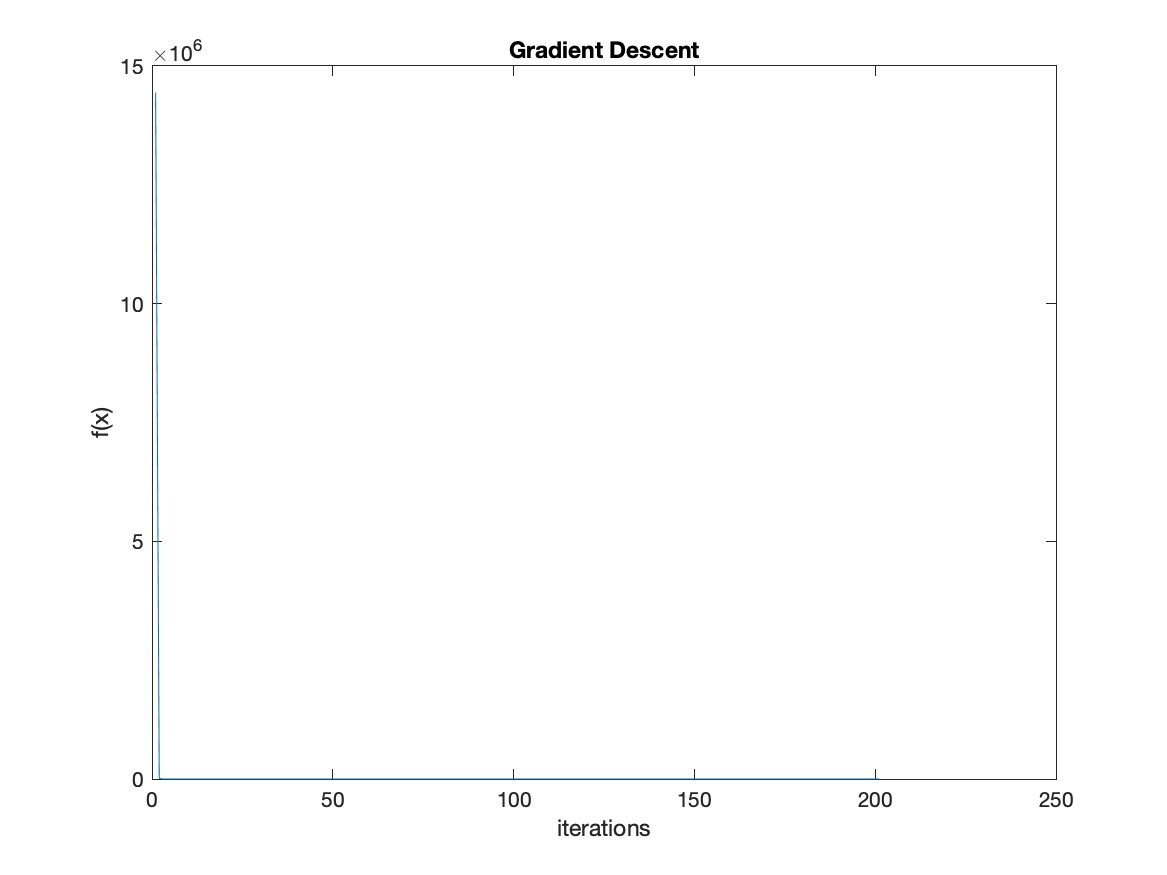
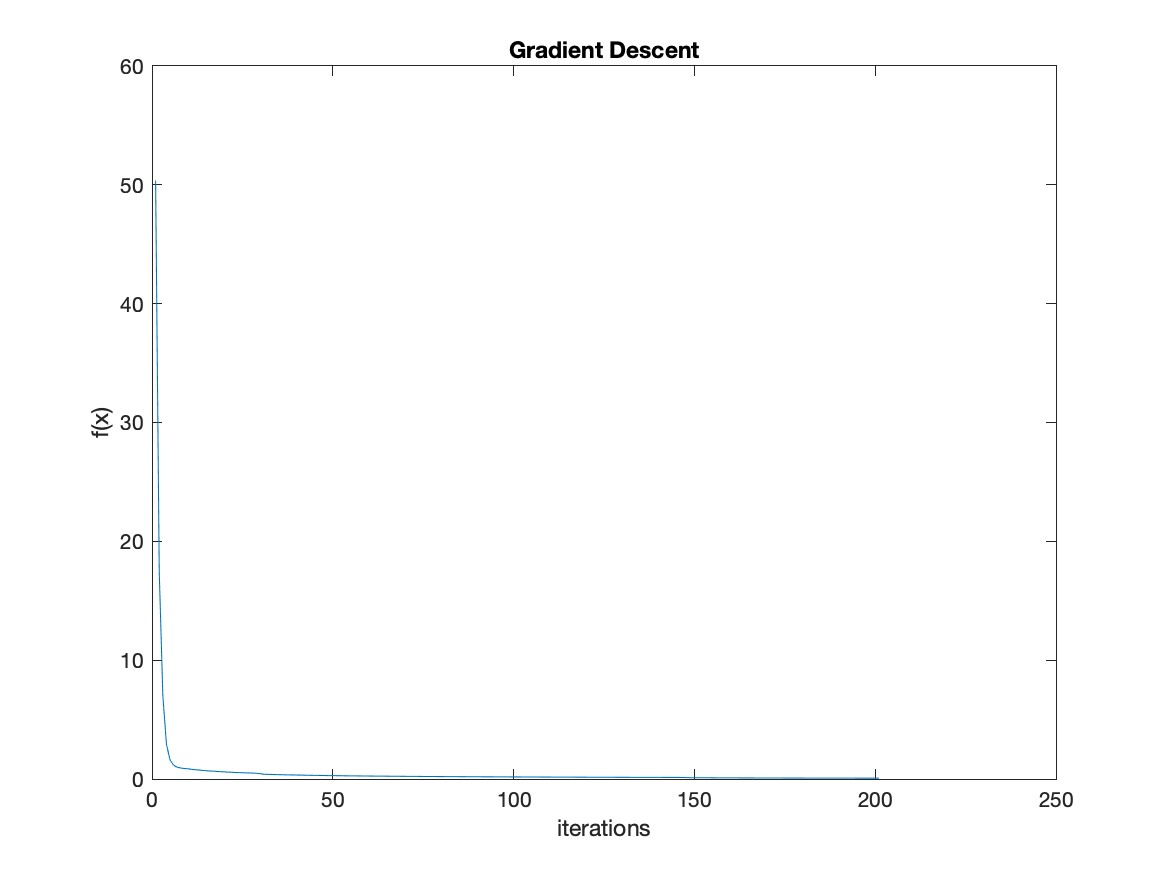
prettify

diff --git a/src_matlab/project2.m b/src_matlab/project2.m
@@ -1,16 +1,18 @@
 % Project 2: Unconstrained Optimization
 
 %% for reproducibility initialize the random number generator
-% rng(20,"twister");
 rng(42,"twister");
 
 x = randn(100, 1);
+% x = 2*ones(100,1);
+
 max_iter=200;
 
 %% fun1
 [x_gd,hist_fx_gd,hist_fxfx1_gd]=gradientDescent(@fun1,@g_fun1,x,1e-5,max_iter);
 % disp(hist_fx_gd(end))
 fprintf("Optimum Value with GD: %f\n", hist_fx_gd(end))
+fprintf("Iterations: %d\n", length(hist_fx_gd)-1)
 
 figure
 plot(1:length(hist_fx_gd), hist_fx_gd);
@@ -22,6 +24,7 @@ saveas(gcf,'fun1_gd.jpg')
 [x_nm,hist_fx_nm,hist_fxfx1_nm]=newton(@fun1,@g_fun1,@h_fun1,x,1e-5,max_iter);
 % disp(hist_fx_nm(end))
 fprintf("Optimum Value with Newton: %f\n", hist_fx_nm(end))
+fprintf("Iterations: %d\n", length(hist_fx_nm)-1)
 
 figure
 plot(1:length(hist_fx_nm), hist_fx_nm);
@@ -33,6 +36,7 @@ saveas(gcf,'fun1_nm.jpg')
 [x_qn,hist_fx_qn,hist_fxfx1_qn]=quasiNewton(@fun1,@g_fun1,@h_fun1,x,1e-5,1000);
 % disp(hist_fx_qn(end))
 fprintf("Optimum Value with Quasi-Newton: %f\n", hist_fx_qn(end))
+fprintf("Iterations: %d\n", length(hist_fx_qn)-1)
 
 figure
 plot(1:length(hist_fx_qn), hist_fx_qn);
@@ -47,6 +51,7 @@ saveas(gcf,'fun1_qn.jpg')
 [x_gd,hist_fx_gd,hist_fxfx1_gd]=gradientDescent(@fun2,@g_fun2,x,1e-5,max_iter);
 % disp(hist_fx_gd(end))
 fprintf("Optimum Value with GD: %f\n", hist_fx_gd(end))
+fprintf("Iterations: %d\n", length(hist_fx_gd)-1)
 
 figure
 plot(1:length(hist_fx_gd), hist_fx_gd);
@@ -58,6 +63,7 @@ saveas(gcf,'fun2_gd.jpg')
 [x_nm,hist_fx_nm,hist_fxfx1_nm]=newton(@fun2,@g_fun2,@h_fun2,x,1e-5,max_iter);
 % disp(hist_fx_nm(end
 fprintf("Optimum Value with Newton: %f\n", hist_fx_nm(end))
+fprintf("Iterations: %d\n", length(hist_fx_nm)-1)
 
 figure
 plot(1:length(hist_fx_nm), hist_fx_nm);
@@ -69,6 +75,7 @@ saveas(gcf,'fun2_nm.jpg')
 [x_qn,hist_fx_qn,hist_fxfx1_qn]=quasiNewton(@fun2,@g_fun2,@h_fun2,x,1e-5,max_iter);
 % disp(hist_fx_qn(end))
 fprintf("Optimum Value with Quasi-Newton: %f\n", hist_fx_qn(end))
+fprintf("Iterations: %d\n", length(hist_fx_qn)-1)
 
 figure
 plot(1:length(hist_fx_qn), hist_fx_qn);
@@ -79,10 +86,12 @@ saveas(gcf,'fun2_qn.jpg')
 
 
 %% fun 3
-x = [20;20];
+% x = [20;20];
+x = randn(2,1);
 [x_gd,hist_fx_gd,hist_fxfx1_gd]=gradientDescent(@fun3,@g_fun3,x,1e-5,max_iter);
 % disp(hist_fx_gd(end))
 fprintf("Optimum Value with GD: %f\n", hist_fx_gd(end))
+fprintf("Iterations: %d\n", length(hist_fx_gd)-1)
 
 figure
 plot(1:length(hist_fx_gd), hist_fx_gd);
@@ -94,6 +103,7 @@ saveas(gcf,'fun3_gd.jpg')
 [x_nm,hist_fx_nm,hist_fxfx1_nm]=newton(@fun3,@g_fun3,@h_fun3,x,1e-5,max_iter);
 % disp(hist_fx_nm(end))
 fprintf("Optimum Value with Newton: %f\n", hist_fx_nm(end))
+fprintf("Iterations: %d\n", length(hist_fx_nm)-1)
 
 figure
 plot(1:length(hist_fx_nm), hist_fx_nm);
@@ -105,6 +115,7 @@ saveas(gcf,'fun3_nm.jpg')
 [x_qn,hist_fx_qn,hist_fxfx1_qn]=quasiNewton(@fun3,@g_fun3,@h_fun3,x,1e-5,max_iter);
 % disp(hist_fx_qn(end))
 fprintf("Optimum Value with Quasi-Newton: %f\n", hist_fx_qn(end))
+fprintf("Iterations: %d\n", length(hist_fx_qn)-1)
 
 figure
 plot(1:length(hist_fx_qn), hist_fx_qn);
@@ -113,23 +124,3 @@ ylabel("f(x)")
 title("Quasi-Newton Method")
 saveas(gcf,'fun3_qn.jpg')
 
-
-%% plotting
-% hist_fx = hist_fx_gd;
-% hist_fxfx1 = hist_fxfx1_gd;
-
-% figure
-% % subplot(1,2,1)
-% plot(1:length(hist_fx), hist_fx);
-% % plot(1:length(hist_fx_gd), hist_fx_gd, 'r', 1:length(hist_fx_nm), hist_fx_nm, 'g', 1:length(hist_fx_qn), hist_fx_qn, 'b');
-% xlabel("iterations")
-% ylabel("f(x)")
-% title("Convergence")
-% subplot(1,2,2)
-% plot(1:length(hist_fxfx1), hist_fxfx1);
-% % plot(1:length(hist_fxfx1), hist_fxfx1, 'r', 1:length(hist_fxfx1_nm), hist_fxfx1_nm, 'g', 1:length(hist_fxfx1_qn), hist_fxfx1_qn, 'b');
-% xlabel("iterations")
-% ylabel("f(x)-f(x-1)")
-% % title("Convergence")
-
-% saveas(gcf,'Convergence.jpg')
